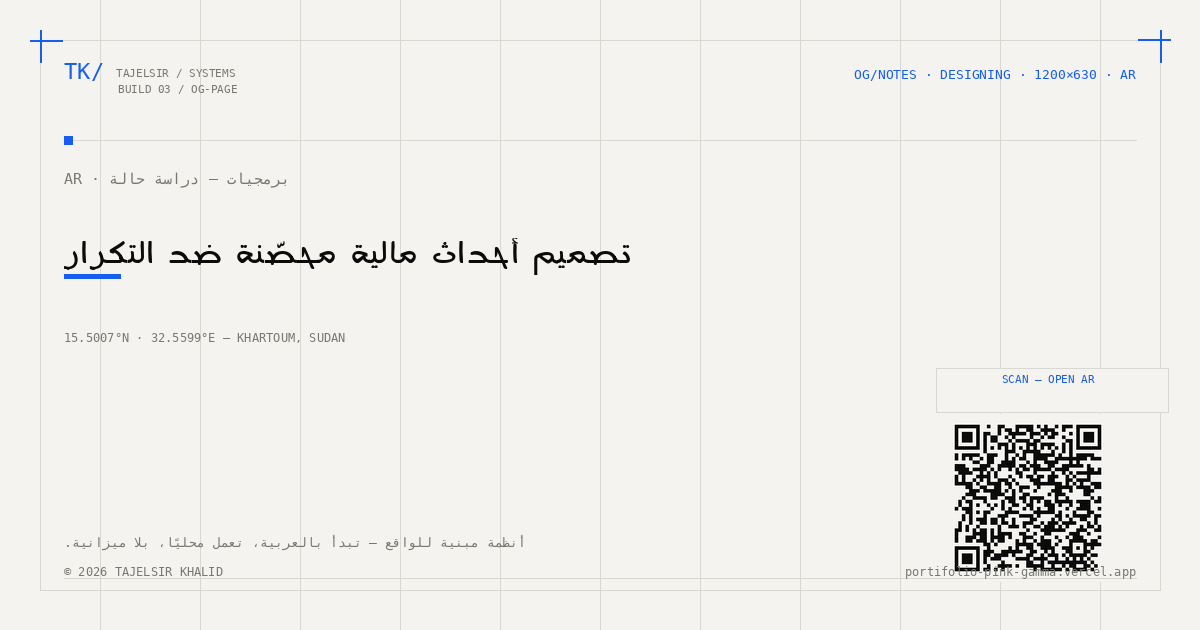
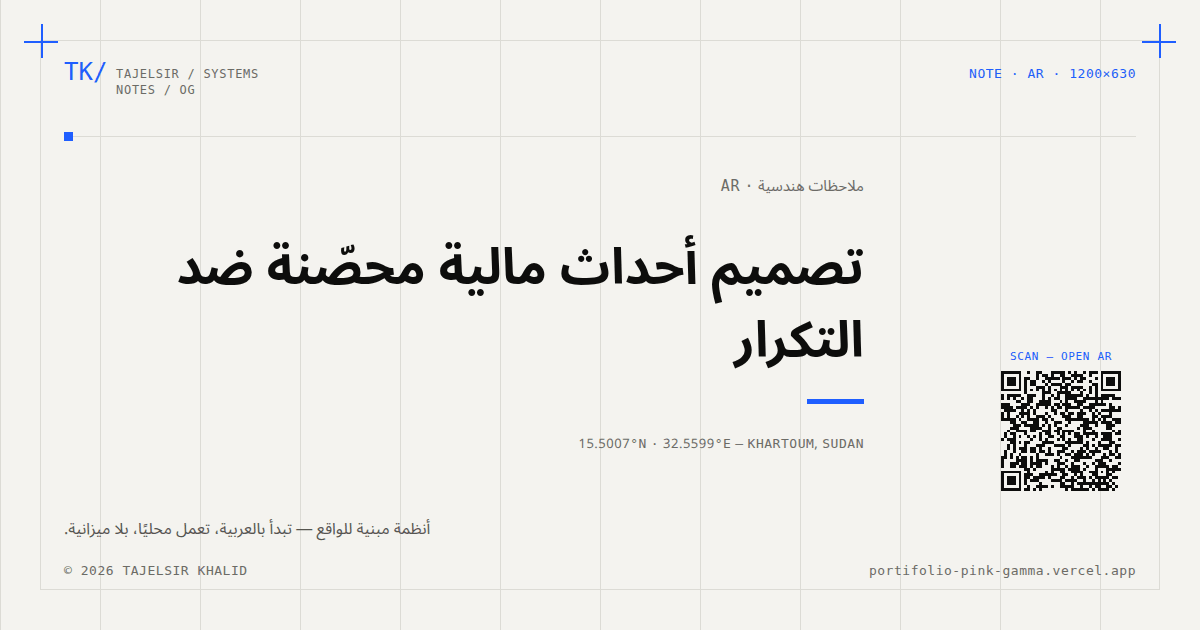
feat: add PIXORY case study, rebuild OG images, phone tap targets
- Add PIXORY (05) project in EN and AR with screenshots
- Regenerate all project and notes OG images (fix overlapping footer,
  Arabic underline/font, QR overlap, blank darthvader screenshot)
- Larger touch hit areas for mono text links on coarse pointers
- Footer nav spacing, FIG caption no-wrap, About title consistency

diff --git a/lib/content/ar.ts b/lib/content/ar.ts
@@ -567,6 +567,144 @@ export const arProjects: Project[] = [
       },
     ],
   },
+  {
+    slug: "pixory",
+    index: "05",
+    kind: "CLIENT WEBSITE",
+    title: "PIXORY",
+    year: "2026",
+    status: "DEPLOYED",
+    description:
+      "موقع عربي أولًا لبكسوري للإنتاج والتسويق، استوديو محتوى في حفر الباطن — خدمات وباقات ومساحات تصوير، وكل طريق في الصفحة ينتهي بمحادثة WhatsApp.",
+    tagline:
+      "موقع استوديو من صفحة واحدة، التحويل فيه رسالة WhatsApp لا نموذج لا يقرؤه أحد.",
+    stack: ["HTML", "CSS", "Vanilla JS", "Cloudflare Workers", "WebP", "Schema.org"],
+    links: [{ label: "الموقع المباشر", href: "https://pixory-site.tsgo132.workers.dev/" }],
+    problem: [
+      "الاستوديو يبيع خمسة مجالات خدمة وثماني باقات وخمس مساحات فعلية — كتالوج أكبر من شاشة الجوال.",
+      "العميل السعودي يحجز عبر WhatsApp؛ نموذج تواصل يصل إلى بريد لا يُفتح يضيّع العميل.",
+      "الأسعار تتغير حسب نطاق كل مشروع، فعلى الموقع أن يبيع دون أن يذكر رقمًا واحدًا.",
+      "أغلب الزوار يأتون من Instagram على الجوال، وكثيرًا على باقة بيانات.",
+    ],
+    constraints: [
+      { id: "RTL", label: "ARABIC / RTL" },
+      { id: "WA", label: "WHATSAPP-FIRST" },
+      { id: "NOPRICE", label: "NO PRICES" },
+      { id: "MOBILE", label: "PHONE-FIRST" },
+      { id: "STATIC", label: "NO BUILD STEP" },
+      { id: "BRAND", label: "STUDIO BRAND" },
+    ],
+    architectureIntro:
+      "لا يوجد خادم. صفحة ثابتة واحدة تُقدَّم من حافة Cloudflare، وكل زر يبني رابط wa.me برسالة جاهزة، فيصل الطلب إلى WhatsApp الاستوديو موسومًا بالخدمة المطلوبة.",
+    architectureNodes: [
+      { id: "ig", label: "INSTAGRAM / SEARCH", sub: "من أين يأتي الزوار" },
+      { id: "edge", label: "CLOUDFLARE EDGE", sub: "ملفات ثابتة · ترويسات تخزين" },
+      { id: "page", label: "STATIC PAGE", sub: "HTML · CSS · JS خفيف" },
+      { id: "form", label: "ENQUIRY FORM", sub: "تُصاغ داخل المتصفح" },
+      { id: "wa", label: "WHATSAPP", sub: "رسالة جاهزة لكل خدمة" },
+    ],
+    architectureEdges: [
+      { from: "ig", to: "edge" },
+      { from: "edge", to: "page" },
+      { from: "page", to: "form" },
+      { from: "page", to: "wa" },
+      { from: "form", to: "wa" },
+    ],
+    decisions: [
+      {
+        title: "لماذا صفحة ثابتة بلا إطار عمل؟",
+        body: "محتوى صفحة واحدة يتغير مرات قليلة في السنة. HTML وCSS وسكربت صغير تُحمَّل بسرعة على بيانات الجوال، ولا يوجد بناء ينكسر، ويمكن تسليم المجلد للعميل كما هو.",
+      },
+      {
+        title: "لماذا يفتح كل زر WhatsApp؟",
+        body: "هناك يرد الاستوديو على عملائه أصلًا. كل خدمة وباقة ترسل رسالتها الجاهزة، فتسمّي الرسالة الأولى ما يريده العميل.",
+      },
+      {
+        title: "لماذا لا يُرسَل النموذج إلى أي خادم؟",
+        body: "يصوغ رسالة WhatsApp داخل المتصفح ويفتح المحادثة. لا خادم، ولا بيانات شخصية مخزنة، ولا صندوق وارد يحتاج متابعة — ويصل الطلب إلى القناة التي يقرؤها الفريق فعلًا.",
+      },
+      {
+        title: "لماذا تخطيط خاص للجوال بدل رصّ الأقسام؟",
+        body: "رصّ صفحة الحاسوب على الجوال أنتج تمريرًا لا ينتهي. على الجوال تُطوى بطاقات الخدمات إلى صفوف تُفتح باللمس، والباقات والمساحات تصبح صفوفًا للسحب، والنموذج يختبئ خلف زر.",
+      },
+      {
+        title: "لماذا بلا أسعار؟",
+        body: "كل عمل له نطاقه. عرض ما تشمله كل باقة، مع توضيح أن العرض يصل بعد رسالة، يضبط التوقعات دون أن يربط العميل برقم.",
+      },
+    ],
+    tradeoffs: [
+      { decision: "WhatsApp قناة الطلب الوحيدة", cost: "من لا يملك WhatsApp يلجأ إلى الاتصال" },
+      { decision: "HTML ثابت بلا نظام إدارة محتوى", cost: "تعديل المحتوى يحتاج مطورًا" },
+      { decision: "بلا أسعار في الصفحة", cost: "بعض الزوار يغادرون قبل أن يسألوا" },
+      { decision: "قواعد تخطيط خاصة بالجوال", cost: "تخطيطان يجب إبقاؤهما متسقين" },
+    ],
+    security: {
+      note: "لا يوجد خادم يمكن اختراقه، والعمل هو إبقاء الأمر كذلك وعدم تسريب بيانات العملاء عبر المتصفح.",
+      threatModel: [
+        "تخزين تفاصيل الطلب أو تسجيلها في مكان لا يجب",
+        "تضمين الصفحة داخل موقع آخر",
+        "تخمين نوع الملفات المقدَّمة (MIME sniffing)",
+      ],
+      mitigation: [
+        "نص النموذج لا يغادر المتصفح إلا إلى WhatsApp الزائر نفسه",
+        "ترويستا X-Frame-Options وnosniff على كل استجابة",
+        "سياسة Referrer صارمة للروابط الخارجية",
+      ],
+    },
+    whatsBroken: [
+      {
+        assumption: "افترضنا أن أزرار WhatsApp أكثر تعني طلبات أكثر.",
+        failure:
+          "على الجوال كان شريط WhatsApp الثابت تحت زر WhatsApp في الواجهة مباشرة، وقسم التواصل يكرر الشريط الذي فوقه — فبدت الصفحة مكتظة.",
+        solution:
+          "الشريط الثابت يظهر الآن بين الواجهة وقسم التواصل فقط، والقسم المكرر مخفي على الجوال.",
+      },
+      {
+        assumption: "ظننا أن display: none يمنع تحميل الصورة.",
+        failure:
+          "صور الكولاج المخفية على الجوال كانت تُحمَّل في كل زيارة من الجوال.",
+        solution:
+          "تحميل كسول لها كي لا تُنزَّل إلا حيث تظهر، مع شعارات بمقاسات مناسبة.",
+      },
+      {
+        assumption: "اعتقدنا أن القائمة تحتاج زر دعوة لإجراء.",
+        failure:
+          "زر WhatsApp داخل قائمة الجوال كرر الشريط الثابت الذي يبعد لمسة واحدة.",
+        solution:
+          "أُزيل الزر؛ القائمة الآن للتنقل فقط، مع رابط عادي إلى قسم التواصل.",
+      },
+    ],
+    result: [
+      { label: "STATUS", value: "DEPLOYED" },
+      { label: "CLIENT", value: "CONTENT STUDIO · KSA" },
+      { label: "RAIL", value: "WHATSAPP-FIRST" },
+      { label: "STACK", value: "STATIC · NO BUILD" },
+      { label: "WEIGHT", value: "~220 KB FIRST LOAD" },
+      { label: "LANG", value: "ARABIC / RTL" },
+    ],
+    media: [
+      {
+        src: "/work/pixory/hero-v2.png",
+        alt: "واجهة موقع بكسوري على الحاسوب",
+        caption: "الواجهة — عربي RTL · كولاج ملصقات",
+      },
+      {
+        src: "/work/pixory/mobile-v2.png",
+        alt: "موقع بكسوري على الجوال: الواجهة وقائمة الخدمات وصف الباقات",
+        caption: "الجوال — خدمات تُفتح باللمس · باقات للسحب · WhatsApp ثابت",
+      },
+      {
+        src: "/work/pixory/packages-v2.png",
+        alt: "باقات بكسوري الشهرية لإدارة التواصل الاجتماعي",
+        caption: "الباقات — النطاق لا السعر",
+      },
+      {
+        src: "/work/pixory/spaces-v2.png",
+        alt: "قسم مساحات استوديو بكسوري",
+        caption: "المساحات — بودكاست · استوديو أبيض · صالة",
+      },
+    ],
+  },
 ];
 
 export const arLabEntries: LabEntry[] = [

diff --git a/lib/content/work.ts b/lib/content/work.ts
@@ -601,6 +601,144 @@ export const projects: Project[] = [
       },
     ],
   },
+  {
+    slug: "pixory",
+    index: "05",
+    kind: "CLIENT WEBSITE",
+    title: "PIXORY",
+    year: "2026",
+    status: "DEPLOYED",
+    description:
+      "Arabic-first website for PIXORY Production & Marketing, a content studio in Hafar Al-Batin — services, packages and studio spaces, with every path ending in a WhatsApp conversation.",
+    tagline:
+      "A one-page studio site where the conversion is a WhatsApp message, not a form nobody reads.",
+    stack: ["HTML", "CSS", "Vanilla JS", "Cloudflare Workers", "WebP", "Schema.org"],
+    links: [{ label: "LIVE SITE", href: "https://pixory-site.tsgo132.workers.dev/" }],
+    problem: [
+      "The studio sells five service lines, eight packages and five physical spaces — too much catalogue for a phone screen.",
+      "Saudi clients book over WhatsApp. A contact form that lands in an unread inbox loses the lead.",
+      "Prices depend on scope, so the site has to sell without listing a single number.",
+      "Most visitors arrive from Instagram on a phone, often on mobile data.",
+    ],
+    constraints: [
+      { id: "RTL", label: "ARABIC / RTL" },
+      { id: "WA", label: "WHATSAPP-FIRST" },
+      { id: "NOPRICE", label: "NO PRICES" },
+      { id: "MOBILE", label: "PHONE-FIRST" },
+      { id: "STATIC", label: "NO BUILD STEP" },
+      { id: "BRAND", label: "STUDIO BRAND" },
+    ],
+    architectureIntro:
+      "No backend. One static page served from Cloudflare's edge; every call to action builds a pre-filled wa.me link, so the enquiry lands in the studio's WhatsApp already tagged with the service.",
+    architectureNodes: [
+      { id: "ig", label: "INSTAGRAM / SEARCH", sub: "where visitors come from" },
+      { id: "edge", label: "CLOUDFLARE EDGE", sub: "static assets · cache headers" },
+      { id: "page", label: "STATIC PAGE", sub: "HTML · CSS · vanilla JS" },
+      { id: "form", label: "ENQUIRY FORM", sub: "composed in the browser" },
+      { id: "wa", label: "WHATSAPP", sub: "pre-filled per service" },
+    ],
+    architectureEdges: [
+      { from: "ig", to: "edge" },
+      { from: "edge", to: "page" },
+      { from: "page", to: "form" },
+      { from: "page", to: "wa" },
+      { from: "form", to: "wa" },
+    ],
+    decisions: [
+      {
+        title: "Why a static page and no framework?",
+        body: "It is one page of content that changes a few times a year. Plain HTML, CSS and a small script load fast on mobile data, have no build to break, and the client can be handed the folder.",
+      },
+      {
+        title: "Why does every button open WhatsApp?",
+        body: "That is where the studio already answers clients. Each service and package sends its own pre-filled message, so the first message already names what the client wants.",
+      },
+      {
+        title: "Why does the form not submit anywhere?",
+        body: "It composes a WhatsApp message in the browser and opens the chat. No server, no stored personal data, no inbox to monitor — and the lead arrives in the channel the team actually reads.",
+      },
+      {
+        title: "Why a separate phone layout instead of just stacking?",
+        body: "Stacking the desktop page on a phone produced an endless scroll. On phones, service cards collapse to tap-to-open rows, packages and spaces become swipe rows, and the form folds behind a button.",
+      },
+      {
+        title: "Why no prices?",
+        body: "Every job is scoped. Showing what each package includes, and saying the quote follows a message, sets expectations without anchoring on a number.",
+      },
+    ],
+    tradeoffs: [
+      { decision: "WhatsApp as the only lead channel", cost: "Visitors without WhatsApp fall back to a phone call" },
+      { decision: "Static HTML, no CMS", cost: "Content changes need a developer edit" },
+      { decision: "No prices on the page", cost: "Some visitors leave before asking" },
+      { decision: "Phone-only layout rules", cost: "Two layouts to keep in sync" },
+    ],
+    security: {
+      note: "There is no backend to breach, so the work is keeping it that way and not leaking client data through the browser.",
+      threatModel: [
+        "Enquiry details stored or logged somewhere they shouldn't be",
+        "The page being framed by another site",
+        "MIME-sniffing of served assets",
+      ],
+      mitigation: [
+        "Form text never leaves the browser except into the visitor's own WhatsApp",
+        "X-Frame-Options and nosniff headers on every response",
+        "Strict referrer policy on outbound links",
+      ],
+    },
+    whatsBroken: [
+      {
+        assumption: "more WhatsApp buttons means more enquiries",
+        failure:
+          "On phones the sticky WhatsApp bar sat under the hero's own WhatsApp button, and the contact section repeated the band right above it — the page felt stuffed.",
+        solution:
+          "The sticky bar now appears only between the hero and the contact section, and the duplicate band is hidden on phones.",
+      },
+      {
+        assumption: "display: none means the image isn't downloaded",
+        failure:
+          "The hero collage images hidden on phones were still being fetched on every mobile visit.",
+        solution:
+          "Lazy-loaded them so they only download where they are actually shown, and served right-sized logos.",
+      },
+      {
+        assumption: "the menu needs a call to action",
+        failure:
+          "A WhatsApp button inside the phone menu duplicated the sticky bar one tap away.",
+        solution:
+          "Removed it; the menu now just navigates, including a plain link to the contact section.",
+      },
+    ],
+    result: [
+      { label: "STATUS", value: "DEPLOYED" },
+      { label: "CLIENT", value: "CONTENT STUDIO · KSA" },
+      { label: "RAIL", value: "WHATSAPP-FIRST" },
+      { label: "STACK", value: "STATIC · NO BUILD" },
+      { label: "WEIGHT", value: "~220 KB FIRST LOAD" },
+      { label: "LANG", value: "ARABIC / RTL" },
+    ],
+    media: [
+      {
+        src: "/work/pixory/hero-v2.png",
+        alt: "PIXORY website hero on desktop",
+        caption: "HERO — ARABIC RTL · POSTER COLLAGE",
+      },
+      {
+        src: "/work/pixory/mobile-v2.png",
+        alt: "PIXORY website on a phone: hero, services list and package swipe row",
+        caption: "PHONE — TAP-TO-OPEN SERVICES · SWIPE PACKAGES · STICKY WHATSAPP",
+      },
+      {
+        src: "/work/pixory/packages-v2.png",
+        alt: "PIXORY monthly social media packages",
+        caption: "PACKAGES — SCOPE NOT PRICE",
+      },
+      {
+        src: "/work/pixory/spaces-v2.png",
+        alt: "PIXORY studio spaces section",
+        caption: "SPACES — PODCAST · WHITE STUDIO · LOUNGE",
+      },
+    ],
+  },
 ];
 
 export function getProject(slug: string) {

diff --git a/app/[lang]/work/[slug]/page.tsx b/app/[lang]/work/[slug]/page.tsx
@@ -365,7 +365,7 @@ export default async function WorkPage({
             />
             <div className="pointer-events-none absolute inset-0 bg-gradient-to-t from-black/50 via-black/5 to-transparent" />
             <div className="absolute inset-x-0 bottom-0 flex items-center gap-3 border-t border-white/15 bg-black/25 px-4 py-3 backdrop-blur-sm sm:px-6">
-              <span className="font-mono text-xs text-accent">FIG / 01</span>
+              <span className="shrink-0 whitespace-nowrap font-mono text-xs text-accent">FIG / 01</span>
               <span className="font-mono text-xs uppercase tracking-[0.2em] text-white/85">
                 {project.media[0].caption}
               </span>

diff --git a/app/globals.css b/app/globals.css
@@ -121,3 +121,15 @@ html[lang="ar"] .text-\[12px\] {
     animation: caret-blink 1.1s step-end infinite;
   }
 }
+/* Touch screens: small mono text links get a ≥40px invisible hit area
+   without changing layout (links with their own padding are left alone). */
+@media (pointer: coarse) {
+  a.font-mono:not([class*="py-"]):not([class*="h-"]) {
+    position: relative;
+  }
+  a.font-mono:not([class*="py-"]):not([class*="h-"])::after {
+    content: "";
+    position: absolute;
+    inset: -12px -6px;
+  }
+}

diff --git a/components/footer.tsx b/components/footer.tsx
@@ -77,7 +77,7 @@ export default function Footer({ lang }: { lang: Locale }) {
                 <br />
                 {dict.footer.builtWith} {dict.footer.buildLine}
               </p>
-              <nav className="mt-4 flex flex-wrap gap-x-5 gap-y-2">
+              <nav className="mt-4 flex flex-wrap gap-x-6 gap-y-4">
                 {SITE_LINKS.map((l) => (
                   <Link
                     key={l.id}

diff --git a/app/[lang]/about/page.tsx b/app/[lang]/about/page.tsx
@@ -19,7 +19,7 @@ export async function generateMetadata({
   return pageMetadata({
     locale,
     path: "/about",
-    title: "ABOUT — TAJELSIR / SYSTEMS",
+    title: "ABOUT — TAJELSIR SYSTEMS",
     description: dict.about.statementLead,
   });
 }

diff --git a/lib/content/registry.ts b/lib/content/registry.ts
@@ -1,4 +1,4 @@
-export const workSlugs = ["hasdo", "easily", "darthvader", "shockwave"] as const;
+export const workSlugs = ["hasdo", "easily", "darthvader", "shockwave", "pixory"] as const;
 
 export const labSlugs = [
   "darthvader",
